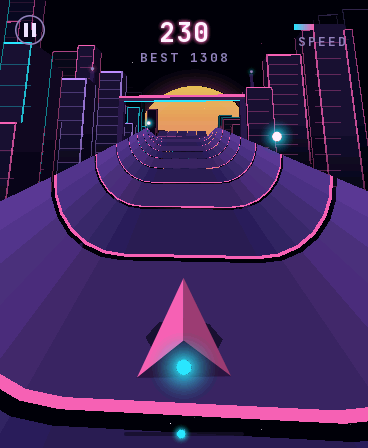
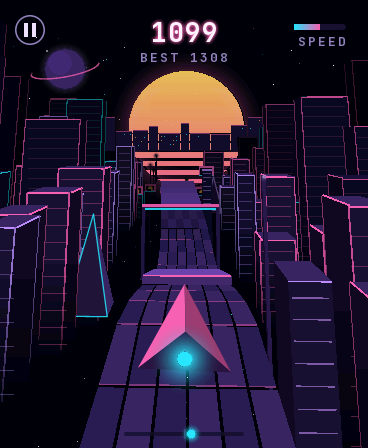
Full-size viewer for NeonDeck shots; new Neon Roads frame; image edges
Device thumbnails open a 3x (nearest-neighbour) version in a dialog
viewer, falling back to a new tab without JS. Neon Roads now shows a
ramp jump over the city. Screenshots get a theme-aware hairline edge
and a soft shadow in light mode.

diff --git a/index.html b/index.html
@@ -14,6 +14,8 @@
     --border:  #e3e7ea;
     --accent:  #0b3954;
     --panel:   #f7f9fa;
+    --shot-edge:   rgba(16, 24, 32, .14);
+    --shot-shadow: 0 1px 2px rgba(16, 24, 32, .08), 0 3px 10px rgba(16, 24, 32, .06);
   }
   @media (prefers-color-scheme: dark) {
     :root {
@@ -23,6 +25,8 @@
       --border: #262f36;
       --accent: #7fc4dd;
       --panel:  #171f25;
+      --shot-edge:   rgba(255, 255, 255, .16);
+      --shot-shadow: none;
     }
   }
 
@@ -98,11 +102,19 @@
     width: 100%;
     height: auto;
     border-radius: 5px;
-    border: 1px solid var(--border);
+    border: 1px solid var(--shot-edge);
+    box-shadow: var(--shot-shadow);
     background: var(--bg);
   }
-  a.shot-link { display: block; }
-  a.shot-link:hover .shot { border-color: var(--accent); }
+  a.shot-link, a.zoom { display: block; }
+  a.zoom { cursor: zoom-in; }
+  a.shot-link:hover .shot, a.zoom:hover .shot { border-color: var(--accent); }
+
+  /* Full-size viewer for the device screenshots */
+  #lightbox { padding: 0; border: 0; background: transparent; max-width: 96vw; max-height: 96vh; overflow: visible; }
+  #lightbox::backdrop { background: rgba(0, 0, 0, .86); }
+  #lightbox img { display: block; height: min(92vh, 1344px); width: auto; max-width: 94vw; object-fit: contain;
+                  border-radius: 18px; cursor: zoom-out; }
 
   /* Device screenshots: 2 x 2 grid of portrait frames (368x448 AMOLED) */
   .shots { display: grid; grid-template-columns: 1fr 1fr; gap: .5rem; }
@@ -197,10 +209,10 @@
 
 <div class="featured">
   <div class="shots">
-    <img class="shot portrait" src="images/neondeck-home.png" width="368" height="448" alt="NeonDeck home screen with Clock, System and Settings apps over a synthwave sunset">
-    <img class="shot portrait" src="images/neondeck-neon-roads.png" width="368" height="448" alt="Neon Roads game: a ship racing into a neon half-pipe through a city at sunset">
-    <img class="shot portrait" src="images/neondeck-vapor-trails.png" width="368" height="448" alt="Vapor Trails flight tracker radar showing nearby aircraft and airports">
-    <img class="shot portrait" src="images/neondeck-vapor-trails-detail.png" width="368" height="448" alt="Vapor Trails flight detail: route, altitude, speed and heading for a selected aircraft">
+    <a class="zoom" href="images/neondeck-home-large.png" target="_blank" rel="noopener"><img class="shot portrait" src="images/neondeck-home.png" width="368" height="448" alt="NeonDeck home screen with Clock, System and Settings apps over a synthwave sunset"></a>
+    <a class="zoom" href="images/neondeck-neon-roads-large.png" target="_blank" rel="noopener"><img class="shot portrait" src="images/neondeck-neon-roads.png" width="368" height="448" alt="Neon Roads game: the ship in mid-air above a neon city avenue at sunset"></a>
+    <a class="zoom" href="images/neondeck-vapor-trails-large.png" target="_blank" rel="noopener"><img class="shot portrait" src="images/neondeck-vapor-trails.png" width="368" height="448" alt="Vapor Trails flight tracker radar showing nearby aircraft and airports"></a>
+    <a class="zoom" href="images/neondeck-vapor-trails-detail-large.png" target="_blank" rel="noopener"><img class="shot portrait" src="images/neondeck-vapor-trails-detail.png" width="368" height="448" alt="Vapor Trails flight detail: route, altitude, speed and heading for a selected aircraft"></a>
   </div>
   <div>
     <div class="item-head">
@@ -272,7 +284,26 @@
   </p>
 </footer>
 
-<script>document.getElementById('year').textContent = new Date().getFullYear();</script>
+<dialog id="lightbox" aria-label="Screenshot viewer"><img alt=""></dialog>
+
+<script>
+  document.getElementById('year').textContent = new Date().getFullYear();
+
+  // Click a device screenshot to view it full size; click or Esc to close.
+  var box = document.getElementById('lightbox');
+  if (box.showModal) {
+    var big = box.querySelector('img');
+    document.querySelectorAll('a.zoom').forEach(function (a) {
+      a.addEventListener('click', function (e) {
+        e.preventDefault();
+        big.src = a.href;
+        big.alt = a.querySelector('img').alt;
+        box.showModal();
+      });
+    });
+    box.addEventListener('click', function () { box.close(); });
+  }
+</script>
 
 </body>
 </html>
